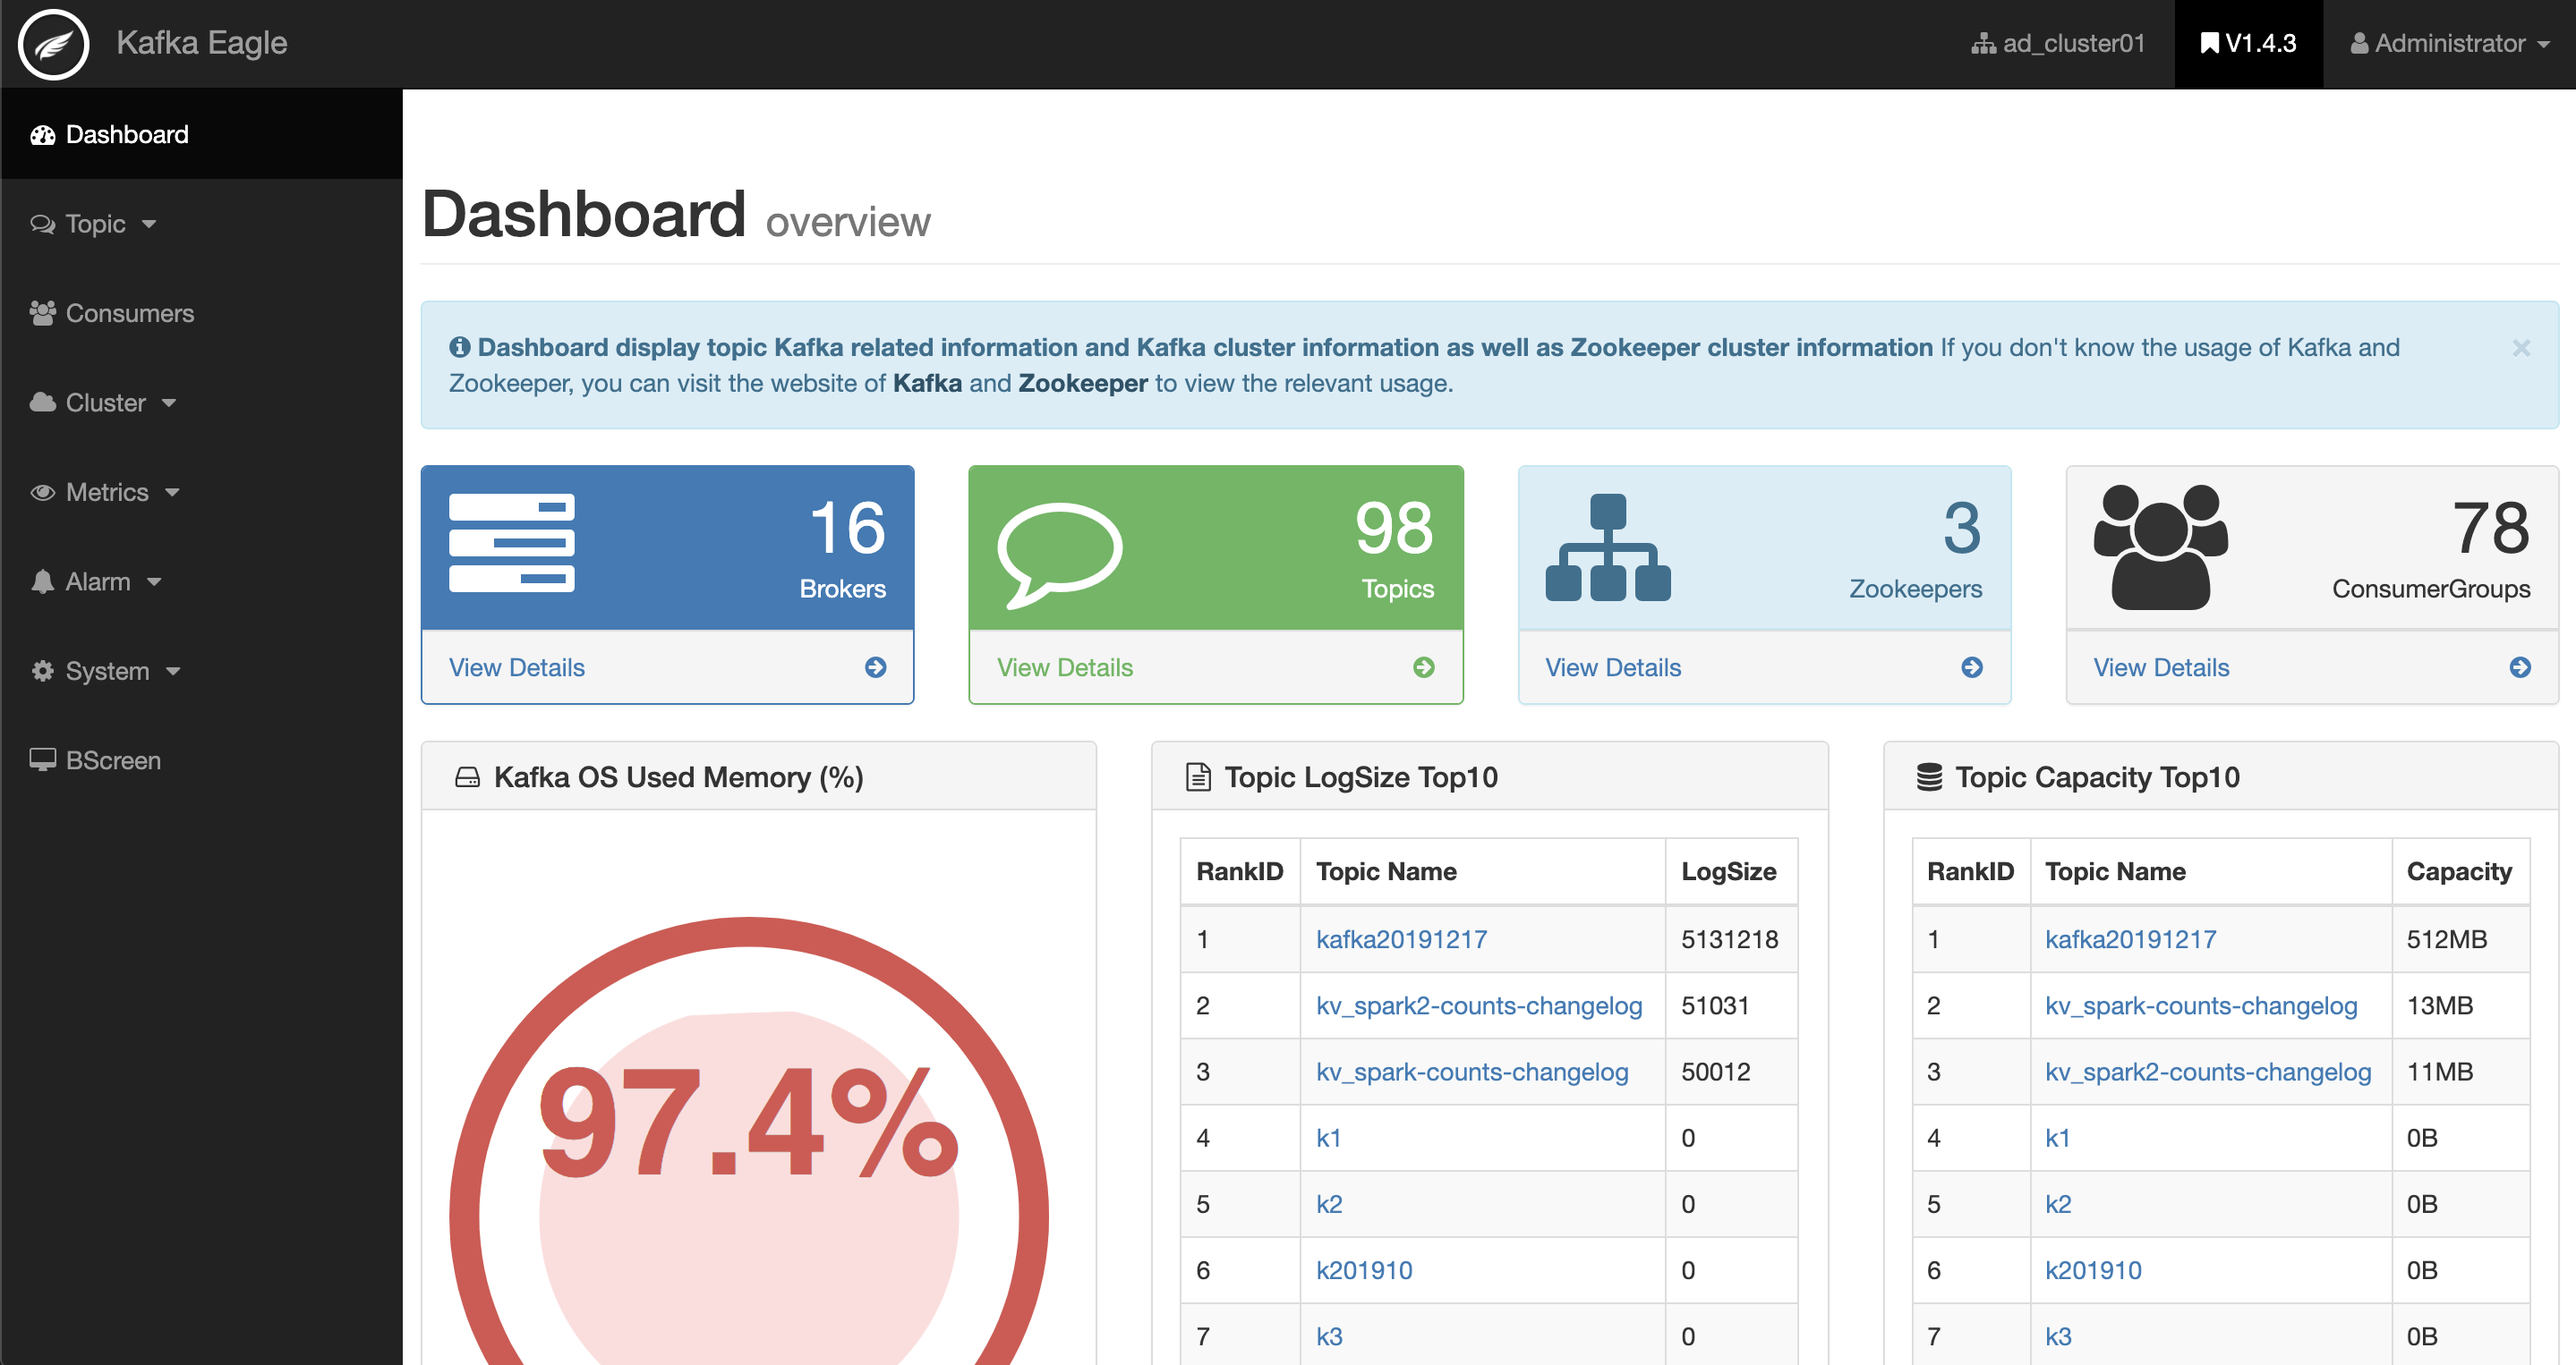
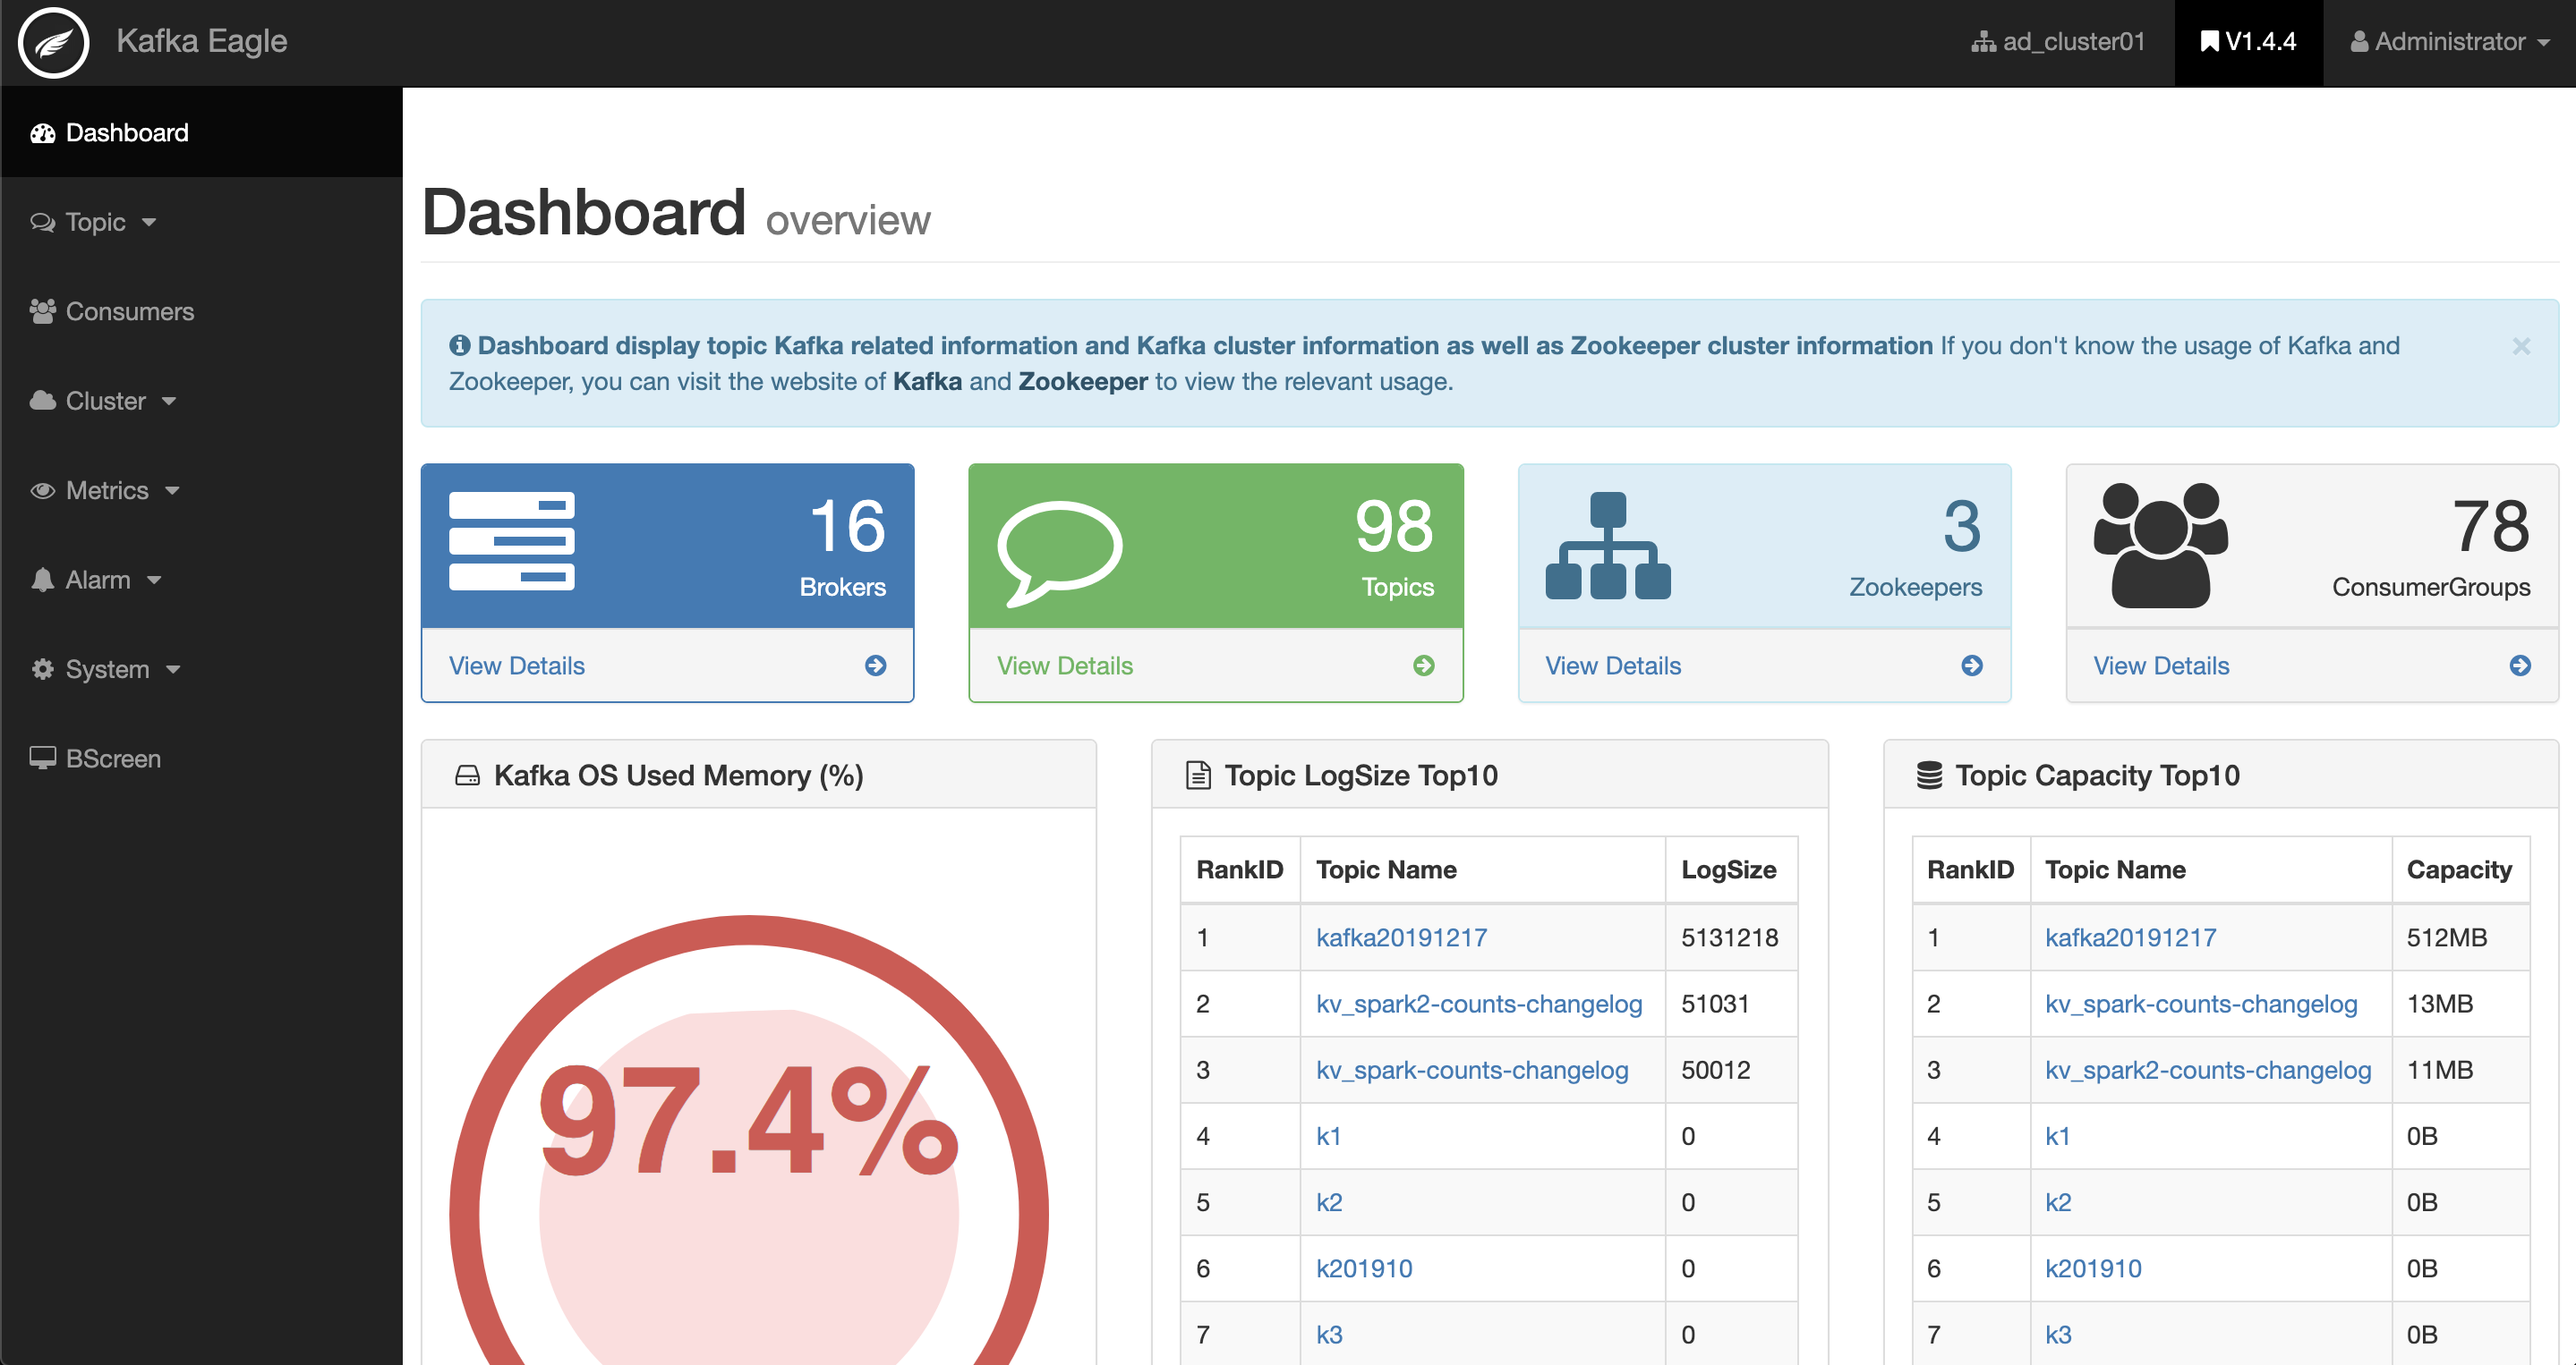
release v1.4.4

diff --git a/index.html b/index.html
@@ -37,7 +37,7 @@
           <div class="wrap">
             <div class="text"><strong>Kafka-<span class="white-text">Eagle</span></strong></div>
             <div class="minitext">A Easy and High-Performance Monitoring System</div>
-            <div class="buttons-unit"><a href="https://docs.kafka-eagle.org/2.Install/2.Installing.html" target="_blank" class="button">Installation guidelines</a><a href="http://download.kafka-eagle.org/" target="_blank" class="button">Download (v1.4.3)</a></div>
+            <div class="buttons-unit"><a href="https://docs.kafka-eagle.org/2.Install/2.Installing.html" target="_blank" class="button">Installation guidelines</a><a href="http://download.kafka-eagle.org/" target="_blank" class="button">Download (v1.4.4)</a></div>
             <div class="admin-screenshots">
               <div class="admin-screenshot">
                 <div class="browser-mockup"><a href="#" target="_blank" class="demo-link"><img src="images/Dashboard@2x.png"><span class="demo-link-label">Kafka Eagle</span></a></div>
